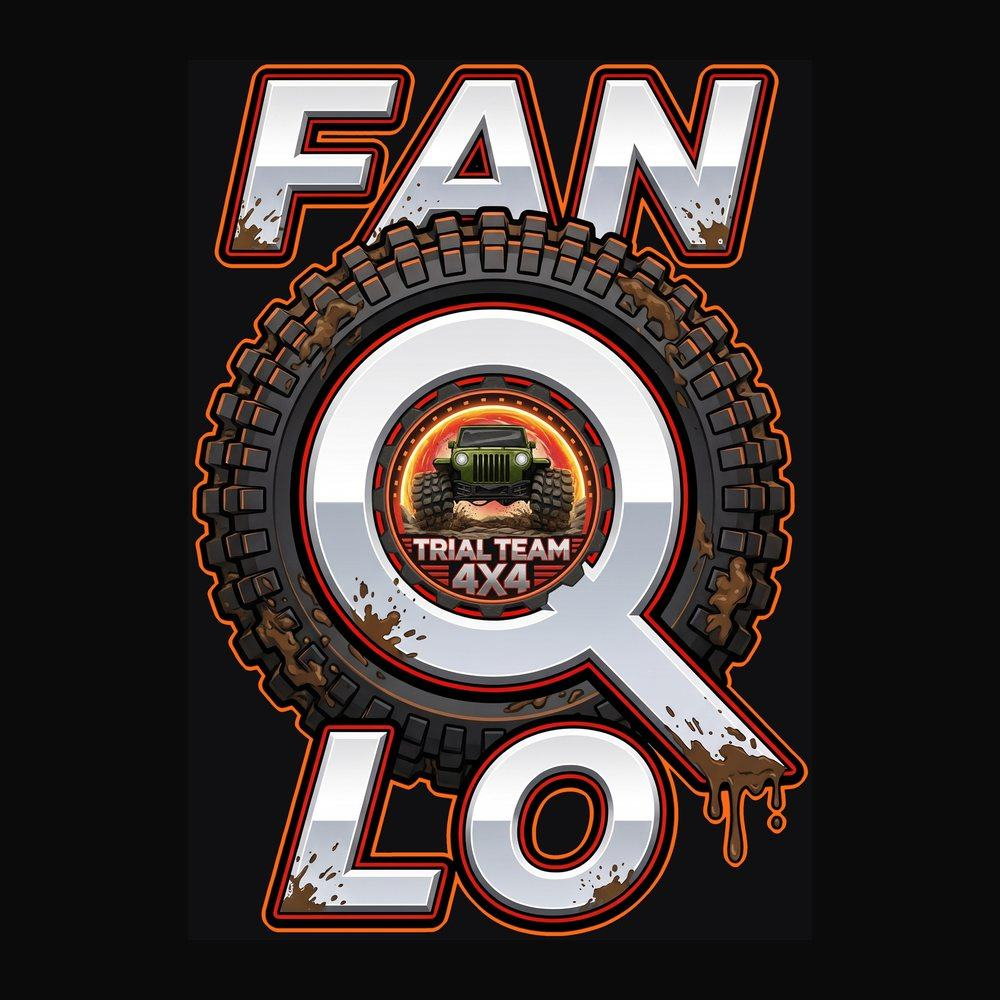
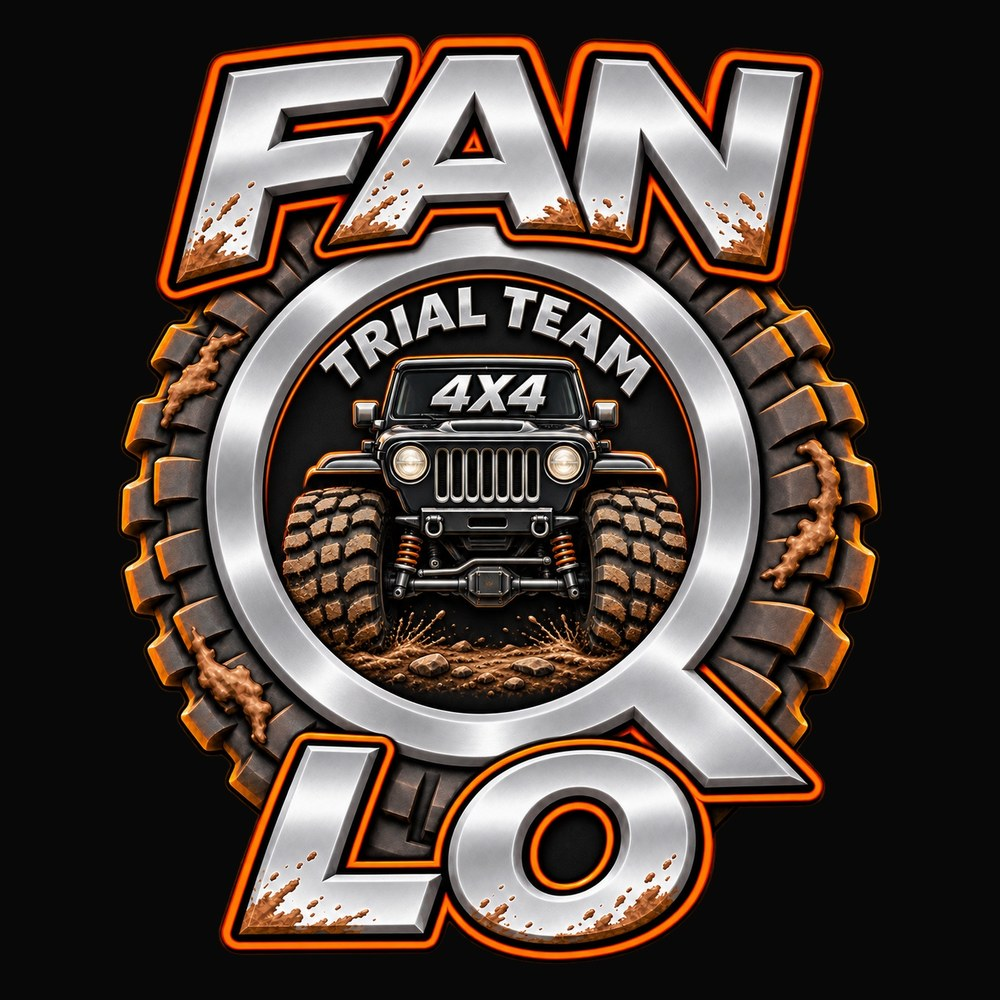
FAN Q LO: grafica Trial Team nuova e maglia FAN Q LO 4x4 Off-Road a 18 euro
Claude-Session: https://claude.ai/code/session_01NjZ5nBP4mLWNqsrV2L94C2

diff --git a/index.html b/index.html
@@ -21,13 +21,13 @@
 <meta name="twitter:description" content="Non è un giro. È una storia. Magliette, felpe, completi da gara e adesivi dell'EDT.">
 <meta name="twitter:image" content="https://endurodrinkingteam.com/img/og.jpg?v=2">
 <script type="application/ld+json">{"@context":"https://schema.org","@graph":[{"@type":"Organization","@id":"https://endurodrinkingteam.com/#edt","name":"Enduro Drinking Team","alternateName":"EDT","url":"https://endurodrinkingteam.com/","logo":"https://endurodrinkingteam.com/img/logo-edt.png","foundingDate":"2017","description":"Gruppo di amici enduristi del Piemonte, con shop ufficiale del merchandising.","sameAs":["https://www.facebook.com/endurodrinkingteam/","https://www.instagram.com/endurodrinking/","https://www.tiktok.com/@endurodrinkingteam","https://www.youtube.com/@piemonteoff-road"]},{"@type":"WebSite","url":"https://endurodrinkingteam.com/","name":"Enduro Drinking Team","inLanguage":"it","publisher":{"@id":"https://endurodrinkingteam.com/#edt"}}]}</script>
-<script type="application/ld+json" id="ld-prodotti">{"@context": "https://schema.org", "@type": "ItemList", "name": "Shop Enduro Drinking Team", "itemListElement": [{"@type": "ListItem", "position": 1, "item": {"@type": "Product", "name": "Completo da gara EDT", "url": "https://endurodrinkingteam.com/#p=completo-gara", "image": "https://endurodrinkingteam.com/img/p/completo-svetlana.jpg", "description": "Maglia + pantalone con il cinghiale, il tuo nome e il numero.", "brand": {"@type": "Brand", "name": "Enduro Drinking Team"}, "offers": {"@type": "Offer", "price": "130.00", "priceCurrency": "EUR", "availability": "https://schema.org/InStock", "url": "https://endurodrinkingteam.com/#p=completo-gara"}}}, {"@type": "ListItem", "position": 2, "item": {"@type": "Product", "name": "Maglia da gara EDT", "url": "https://endurodrinkingteam.com/#p=maglia-gara", "image": "https://endurodrinkingteam.com/img/s/maglia-gara2.jpg", "description": "Enduro Drinking Team davanti, il cinghiale e il tuo nome sulla schiena.", "brand": {"@type": "Brand", "name": "Enduro Drinking Team"}, "offers": {"@type": "Offer", "price": "30.00", "priceCurrency": "EUR", "availability": "https://schema.org/InStock", "url": "https://endurodrinkingteam.com/#p=maglia-gara"}}}, {"@type": "ListItem", "position": 3, "item": {"@type": "Product", "name": "Pantalone da gara EDT", "url": "https://endurodrinkingteam.com/#p=pantalone-gara", "image": "https://endurodrinkingteam.com/img/x/pantalone-dettaglio.jpg", "description": "Il pantalone del completo, con i cinghiali sulle cosce. Venduto da solo.", "brand": {"@type": "Brand", "name": "Enduro Drinking Team"}, "offers": {"@type": "Offer", "price": "110.00", "priceCurrency": "EUR", "availability": "https://schema.org/InStock", "url": "https://endurodrinkingteam.com/#p=pantalone-gara"}}}, {"@type": "ListItem", "position": 4, "item": {"@type": "Product", "name": "Sono un endurista semplice", "url": "https://endurodrinkingteam.com/#p=endurista-semplice", "image": "https://endurodrinkingteam.com/img/p/endurista-svetlana.jpg", "description": "La t-shirt più onesta del Piemonte: scudetto EDT sulla manica e il tuo nome sulla schiena.", "brand": {"@type": "Brand", "name": "Enduro Drinking Team"}, "offers": {"@type": "Offer", "price": "18.00", "priceCurrency": "EUR", "availability": "https://schema.org/InStock", "url": "https://endurodrinkingteam.com/#p=endurista-semplice"}}}, {"@type": "ListItem", "position": 5, "item": {"@type": "Product", "name": "Felpa EDT con nome", "url": "https://endurodrinkingteam.com/#p=felpa-edt", "image": "https://endurodrinkingteam.com/img/s/felpa.jpg", "description": "Zip e cappuccio, il tuo nome sul petto.", "brand": {"@type": "Brand", "name": "Enduro Drinking Team"}, "offers": {"@type": "Offer", "price": "25.00", "priceCurrency": "EUR", "availability": "https://schema.org/InStock", "url": "https://endurodrinkingteam.com/#p=felpa-edt"}}}, {"@type": "ListItem", "position": 6, "item": {"@type": "Product", "name": "T-shirt GEV", "url": "https://endurodrinkingteam.com/#p=t-shirt-gev", "image": "https://endurodrinkingteam.com/img/s/gev.jpg", "description": "Cinque stelle e il tuo nome.", "brand": {"@type": "Brand", "name": "Enduro Drinking Team"}, "offers": {"@type": "Offer", "price": "18.00", "priceCurrency": "EUR", "availability": "https://schema.org/InStock", "url": "https://endurodrinkingteam.com/#p=t-shirt-gev"}}}, {"@type": "ListItem", "position": 7, "item": {"@type": "Product", "name": "Fuck the GEV", "url": "https://endurodrinkingteam.com/#p=fuck-the-gev", "image": "https://endurodrinkingteam.com/img/s/fuckgev.jpg", "description": "Il cinghiale anti-GEV. Per chi ha capito.", "brand": {"@type": "Brand", "name": "Enduro Drinking Team"}, "offers": {"@type": "Offer", "price": "18.00", "priceCurrency": "EUR", "availability": "https://schema.org/InStock", "url": "https://endurodrinkingteam.com/#p=fuck-the-gev"}}}, {"@type": "ListItem", "position": 8, "item": {"@type": "Product", "name": "Fuck the GEV 2026", "url": "https://endurodrinkingteam.com/#p=fuck-the-gev-2026", "image": "https://endurodrinkingteam.com/img/x/fgev26-tee.jpg", "description": "La nuova grafica 2026 in rosso, bianco e verde, grande sul petto.", "brand": {"@type": "Brand", "name": "Enduro Drinking Team"}, "offers": {"@type": "Offer", "price": "18.00", "priceCurrency": "EUR", "availability": "https://schema.org/InStock", "url": "https://endurodrinkingteam.com/#p=fuck-the-gev-2026"}}}, {"@type": "ListItem", "position": 9, "item": {"@type": "Product", "name": "T-shirt EDT 2026", "url": "https://endurodrinkingteam.com/#p=t-shirt-2020", "image": "https://endurodrinkingteam.com/img/s/tshirt2026.jpg", "description": "Il cinghiale vichingo 2026 sul rosso.", "brand": {"@type": "Brand", "name": "Enduro Drinking Team"}, "offers": {"@type": "Offer", "price": "15.00", "priceCurrency": "EUR", "availability": "https://schema.org/InStock", "url": "https://endurodrinkingteam.com/#p=t-shirt-2020"}}}, {"@type": "ListItem", "position": 10, "item": {"@type": "Product", "name": "Manica lunga classica", "url": "https://endurodrinkingteam.com/#p=manica-lunga", "image": "https://endurodrinkingteam.com/img/s/manica.jpg", "description": "Il cinghiale 2026 grande sul petto. Per le uscite di novembre.", "brand": {"@type": "Brand", "name": "Enduro Drinking Team"}, "offers": {"@type": "Offer", "price": "20.00", "priceCurrency": "EUR", "availability": "https://schema.org/InStock", "url": "https://endurodrinkingteam.com/#p=manica-lunga"}}}, {"@type": "ListItem", "position": 11, "item": {"@type": "Product", "name": "T-shirt Serial Griller", "url": "https://endurodrinkingteam.com/#p=t-shirt-serial-griller", "image": "https://endurodrinkingteam.com/img/s/griller.jpg", "description": "Dopo il giro, la griglia.", "brand": {"@type": "Brand", "name": "Enduro Drinking Team"}, "offers": {"@type": "Offer", "price": "15.00", "priceCurrency": "EUR", "availability": "https://schema.org/InStock", "url": "https://endurodrinkingteam.com/#p=t-shirt-serial-griller"}}}, {"@type": "ListItem", "position": 12, "item": {"@type": "Product", "name": "Grembiule Serial Griller", "url": "https://endurodrinkingteam.com/#p=grembiule", "image": "https://endurodrinkingteam.com/img/s/grembiule.jpg", "description": "Taglia unica, anche per chi brucia tutto.", "brand": {"@type": "Brand", "name": "Enduro Drinking Team"}, "offers": {"@type": "Offer", "price": "20.00", "priceCurrency": "EUR", "availability": "https://schema.org/InStock", "url": "https://endurodrinkingteam.com/#p=grembiule"}}}, {"@type": "ListItem", "position": 13, "item": {"@type": "Product", "name": "Berretto EDT", "url": "https://endurodrinkingteam.com/#p=berretto-edt", "image": "https://endurodrinkingteam.com/img/s/berretto.jpg", "description": "Berretto in maglia con la patch del cinghiale 2026.", "brand": {"@type": "Brand", "name": "Enduro Drinking Team"}, "offers": {"@type": "Offer", "price": "20.00", "priceCurrency": "EUR", "availability": "https://schema.org/InStock", "url": "https://endurodrinkingteam.com/#p=berretto-edt"}}}, {"@type": "ListItem", "position": 14, "item": {"@type": "Product", "name": "FAN Q LO Trial Team", "url": "https://endurodrinkingteam.com/#p=fanqlo-trial-team", "image": "https://endurodrinkingteam.com/img/x/fanqlo-tee.jpg", "description": "La Q è una gomma tassellata con dentro il logo Trial Team 4x4. Si capisce al volo.", "brand": {"@type": "Brand", "name": "Enduro Drinking Team"}, "offers": {"@type": "Offer", "price": "18.00", "priceCurrency": "EUR", "availability": "https://schema.org/InStock", "url": "https://endurodrinkingteam.com/#p=fanqlo-trial-team"}}}, {"@type": "ListItem", "position": 15, "item": {"@type": "Product", "name": "Cappello 4x4 in lana", "url": "https://endurodrinkingteam.com/#p=cappello-4x4", "image": "https://endurodrinkingteam.com/img/s/4x4.jpg", "description": "Con la patch 4x4 Off Road.", "brand": {"@type": "Brand", "name": "Enduro Drinking Team"}, "offers": {"@type": "Offer", "price": "12.00", "priceCurrency": "EUR", "availability": "https://schema.org/InStock", "url": "https://endurodrinkingteam.com/#p=cappello-4x4"}}}, {"@type": "ListItem", "position": 16, "item": {"@type": "Product", "name": "Cintura 4x4 in cuoio", "url": "https://endurodrinkingteam.com/#p=cintura-4x4", "image": "https://endurodrinkingteam.com/img/s/cintura.jpg", "description": "Cuoio nero con cuciture rosse, grafica 4x4 Off Road e battistrada. Personalizzabile col tuo nome.", "brand": {"@type": "Brand", "name": "Enduro Drinking Team"}, "offers": {"@type": "Offer", "price": "70.00", "priceCurrency": "EUR", "availability": "https://schema.org/InStock", "url": "https://endurodrinkingteam.com/#p=cintura-4x4"}}}, {"@type": "ListItem", "position": 17, "item": {"@type": "Product", "name": "Patch EDT", "url": "https://endurodrinkingteam.com/#p=patch-edt", "image": "https://endurodrinkingteam.com/img/s/c-patch.jpg", "description": "In stoffa, 8 × 7 cm.", "brand": {"@type": "Brand", "name": "Enduro Drinking Team"}, "offers": {"@type": "Offer", "price": "10.00", "priceCurrency": "EUR", "availability": "https://schema.org/InStock", "url": "https://endurodrinkingteam.com/#p=patch-edt"}}}, {"@type": "ListItem", "position": 18, "item": {"@type": "Product", "name": "Adesivo EDT grande", "url": "https://endurodrinkingteam.com/#p=adesivo-classico", "image": "https://endurodrinkingteam.com/img/s/c-classico.jpg", "description": "Il cinghiale 2026, 10 × 10 cm.", "brand": {"@type": "Brand", "name": "Enduro Drinking Team"}, "offers": {"@type": "Offer", "price": "1.00", "priceCurrency": "EUR", "availability": "https://schema.org/InStock", "url": "https://endurodrinkingteam.com/#p=adesivo-classico"}}}, {"@type": "ListItem", "position": 19, "item": {"@type": "Product", "name": "Adesivo EDT 2026", "url": "https://endurodrinkingteam.com/#p=adesivo-2020", "image": "https://endurodrinkingteam.com/img/s/c-2020.jpg", "description": "7 × 7 cm.", "brand": {"@type": "Brand", "name": "Enduro Drinking Team"}, "offers": {"@type": "Offer", "price": "1.00", "priceCurrency": "EUR", "availability": "https://schema.org/InStock", "url": "https://endurodrinkingteam.com/#p=adesivo-2020"}}}, {"@type": "ListItem", "position": 20, "item": {"@type": "Product", "name": "Adesivo olografico EDT", "url": "https://endurodrinkingteam.com/#p=adesivo-olografico", "image": "https://endurodrinkingteam.com/img/s/c-olografico.jpg", "description": "7 × 7 cm, brilla al sole.", "brand": {"@type": "Brand", "name": "Enduro Drinking Team"}, "offers": {"@type": "Offer", "price": "1.50", "priceCurrency": "EUR", "availability": "https://schema.org/InStock", "url": "https://endurodrinkingteam.com/#p=adesivo-olografico"}}}, {"@type": "ListItem", "position": 21, "item": {"@type": "Product", "name": "Adesivo stemma EDT", "url": "https://endurodrinkingteam.com/#p=stemma-2020", "image": "https://endurodrinkingteam.com/img/s/c-stemma.jpg", "description": "7 × 7 cm.", "brand": {"@type": "Brand", "name": "Enduro Drinking Team"}, "offers": {"@type": "Offer", "price": "1.00", "priceCurrency": "EUR", "availability": "https://schema.org/InStock", "url": "https://endurodrinkingteam.com/#p=stemma-2020"}}}, {"@type": "ListItem", "position": 22, "item": {"@type": "Product", "name": "Adesivo Enduro Piemonte", "url": "https://endurodrinkingteam.com/#p=adesivo-piemonte", "image": "https://endurodrinkingteam.com/img/s/q-adesivo-piemonte.jpg", "description": "8 × 8 cm.", "brand": {"@type": "Brand", "name": "Enduro Drinking Team"}, "offers": {"@type": "Offer", "price": "1.00", "priceCurrency": "EUR", "availability": "https://schema.org/InStock", "url": "https://endurodrinkingteam.com/#p=adesivo-piemonte"}}}, {"@type": "ListItem", "position": 23, "item": {"@type": "Product", "name": "Adesivo Grigliare humanum est", "url": "https://endurodrinkingteam.com/#p=adesivo-grigliare", "image": "https://endurodrinkingteam.com/img/s/q-adesivo-grigliare.jpg", "description": "9 × 6 cm.", "brand": {"@type": "Brand", "name": "Enduro Drinking Team"}, "offers": {"@type": "Offer", "price": "1.00", "priceCurrency": "EUR", "availability": "https://schema.org/InStock", "url": "https://endurodrinkingteam.com/#p=adesivo-grigliare"}}}, {"@type": "ListItem", "position": 24, "item": {"@type": "Product", "name": "Adesivo I want you for giri easy", "url": "https://endurodrinkingteam.com/#p=adesivo-iwantyou", "image": "https://endurodrinkingteam.com/img/s/q-adesivo-iwantyou.jpg", "description": "Il reclutamento ufficiale EDT.", "brand": {"@type": "Brand", "name": "Enduro Drinking Team"}, "offers": {"@type": "Offer", "price": "1.00", "priceCurrency": "EUR", "availability": "https://schema.org/InStock", "url": "https://endurodrinkingteam.com/#p=adesivo-iwantyou"}}}, {"@type": "ListItem", "position": 25, "item": {"@type": "Product", "name": "Adesivo San Miti", "url": "https://endurodrinkingteam.com/#p=adesivo-sanmiti", "image": "https://endurodrinkingteam.com/img/s/q-adesivo-sanmiti.jpg", "description": "Protettore dell'EDT. Attaccalo sul parafango, non si sa mai.", "brand": {"@type": "Brand", "name": "Enduro Drinking Team"}, "offers": {"@type": "Offer", "price": "1.00", "priceCurrency": "EUR", "availability": "https://schema.org/InStock", "url": "https://endurodrinkingteam.com/#p=adesivo-sanmiti"}}}, {"@type": "ListItem", "position": 26, "item": {"@type": "Product", "name": "Calamita stemma EDT", "url": "https://endurodrinkingteam.com/#p=calamita-stemma", "image": "https://endurodrinkingteam.com/img/s/c-calamita-stemma.jpg", "description": "65 × 76 mm.", "brand": {"@type": "Brand", "name": "Enduro Drinking Team"}, "offers": {"@type": "Offer", "price": "1.50", "priceCurrency": "EUR", "availability": "https://schema.org/InStock", "url": "https://endurodrinkingteam.com/#p=calamita-stemma"}}}, {"@type": "ListItem", "position": 27, "item": {"@type": "Product", "name": "Calamita EDT", "url": "https://endurodrinkingteam.com/#p=calamita-edt", "image": "https://endurodrinkingteam.com/img/s/c-calamita.jpg", "description": "8 × 8 cm.", "brand": {"@type": "Brand", "name": "Enduro Drinking Team"}, "offers": {"@type": "Offer", "price": "1.50", "priceCurrency": "EUR", "availability": "https://schema.org/InStock", "url": "https://endurodrinkingteam.com/#p=calamita-edt"}}}, {"@type": "ListItem", "position": 28, "item": {"@type": "Product", "name": "Spilla EDT classica", "url": "https://endurodrinkingteam.com/#p=spilla-classica", "image": "https://endurodrinkingteam.com/img/s/c-spilla.jpg", "description": "3 × 3 cm.", "brand": {"@type": "Brand", "name": "Enduro Drinking Team"}, "offers": {"@type": "Offer", "price": "1.50", "priceCurrency": "EUR", "availability": "https://schema.org/InStock", "url": "https://endurodrinkingteam.com/#p=spilla-classica"}}}, {"@type": "ListItem", "position": 29, "item": {"@type": "Product", "name": "Spilla Enduro Piemonte", "url": "https://endurodrinkingteam.com/#p=spilla-piemonte", "image": "https://endurodrinkingteam.com/img/s/q-spilla-piemonte.jpg", "description": "4 × 4 cm.", "brand": {"@type": "Brand", "name": "Enduro Drinking Team"}, "offers": {"@type": "Offer", "price": "1.50", "priceCurrency": "EUR", "availability": "https://schema.org/InStock", "url": "https://endurodrinkingteam.com/#p=spilla-piemonte"}}}]}</script>
+<script type="application/ld+json" id="ld-prodotti">{"@context": "https://schema.org", "@type": "ItemList", "name": "Shop Enduro Drinking Team", "itemListElement": [{"@type": "ListItem", "position": 1, "item": {"@type": "Product", "name": "Completo da gara EDT", "url": "https://endurodrinkingteam.com/#p=completo-gara", "image": "https://endurodrinkingteam.com/img/p/completo-svetlana.jpg", "description": "Maglia + pantalone con il cinghiale, il tuo nome e il numero.", "brand": {"@type": "Brand", "name": "Enduro Drinking Team"}, "offers": {"@type": "Offer", "price": "130.00", "priceCurrency": "EUR", "availability": "https://schema.org/InStock", "url": "https://endurodrinkingteam.com/#p=completo-gara"}}}, {"@type": "ListItem", "position": 2, "item": {"@type": "Product", "name": "Maglia da gara EDT", "url": "https://endurodrinkingteam.com/#p=maglia-gara", "image": "https://endurodrinkingteam.com/img/s/maglia-gara2.jpg", "description": "Enduro Drinking Team davanti, il cinghiale e il tuo nome sulla schiena.", "brand": {"@type": "Brand", "name": "Enduro Drinking Team"}, "offers": {"@type": "Offer", "price": "30.00", "priceCurrency": "EUR", "availability": "https://schema.org/InStock", "url": "https://endurodrinkingteam.com/#p=maglia-gara"}}}, {"@type": "ListItem", "position": 3, "item": {"@type": "Product", "name": "Pantalone da gara EDT", "url": "https://endurodrinkingteam.com/#p=pantalone-gara", "image": "https://endurodrinkingteam.com/img/x/pantalone-dettaglio.jpg", "description": "Il pantalone del completo, con i cinghiali sulle cosce. Venduto da solo.", "brand": {"@type": "Brand", "name": "Enduro Drinking Team"}, "offers": {"@type": "Offer", "price": "110.00", "priceCurrency": "EUR", "availability": "https://schema.org/InStock", "url": "https://endurodrinkingteam.com/#p=pantalone-gara"}}}, {"@type": "ListItem", "position": 4, "item": {"@type": "Product", "name": "Sono un endurista semplice", "url": "https://endurodrinkingteam.com/#p=endurista-semplice", "image": "https://endurodrinkingteam.com/img/p/endurista-svetlana.jpg", "description": "La t-shirt più onesta del Piemonte: scudetto EDT sulla manica e il tuo nome sulla schiena.", "brand": {"@type": "Brand", "name": "Enduro Drinking Team"}, "offers": {"@type": "Offer", "price": "18.00", "priceCurrency": "EUR", "availability": "https://schema.org/InStock", "url": "https://endurodrinkingteam.com/#p=endurista-semplice"}}}, {"@type": "ListItem", "position": 5, "item": {"@type": "Product", "name": "Felpa EDT con nome", "url": "https://endurodrinkingteam.com/#p=felpa-edt", "image": "https://endurodrinkingteam.com/img/s/felpa.jpg", "description": "Zip e cappuccio, il tuo nome sul petto.", "brand": {"@type": "Brand", "name": "Enduro Drinking Team"}, "offers": {"@type": "Offer", "price": "25.00", "priceCurrency": "EUR", "availability": "https://schema.org/InStock", "url": "https://endurodrinkingteam.com/#p=felpa-edt"}}}, {"@type": "ListItem", "position": 6, "item": {"@type": "Product", "name": "T-shirt GEV", "url": "https://endurodrinkingteam.com/#p=t-shirt-gev", "image": "https://endurodrinkingteam.com/img/s/gev.jpg", "description": "Cinque stelle e il tuo nome.", "brand": {"@type": "Brand", "name": "Enduro Drinking Team"}, "offers": {"@type": "Offer", "price": "18.00", "priceCurrency": "EUR", "availability": "https://schema.org/InStock", "url": "https://endurodrinkingteam.com/#p=t-shirt-gev"}}}, {"@type": "ListItem", "position": 7, "item": {"@type": "Product", "name": "Fuck the GEV", "url": "https://endurodrinkingteam.com/#p=fuck-the-gev", "image": "https://endurodrinkingteam.com/img/s/fuckgev.jpg", "description": "Il cinghiale anti-GEV. Per chi ha capito.", "brand": {"@type": "Brand", "name": "Enduro Drinking Team"}, "offers": {"@type": "Offer", "price": "18.00", "priceCurrency": "EUR", "availability": "https://schema.org/InStock", "url": "https://endurodrinkingteam.com/#p=fuck-the-gev"}}}, {"@type": "ListItem", "position": 8, "item": {"@type": "Product", "name": "Fuck the GEV 2026", "url": "https://endurodrinkingteam.com/#p=fuck-the-gev-2026", "image": "https://endurodrinkingteam.com/img/x/fgev26-tee.jpg", "description": "La nuova grafica 2026 in rosso, bianco e verde, grande sul petto.", "brand": {"@type": "Brand", "name": "Enduro Drinking Team"}, "offers": {"@type": "Offer", "price": "18.00", "priceCurrency": "EUR", "availability": "https://schema.org/InStock", "url": "https://endurodrinkingteam.com/#p=fuck-the-gev-2026"}}}, {"@type": "ListItem", "position": 9, "item": {"@type": "Product", "name": "T-shirt EDT 2026", "url": "https://endurodrinkingteam.com/#p=t-shirt-2020", "image": "https://endurodrinkingteam.com/img/s/tshirt2026.jpg", "description": "Il cinghiale vichingo 2026 sul rosso.", "brand": {"@type": "Brand", "name": "Enduro Drinking Team"}, "offers": {"@type": "Offer", "price": "15.00", "priceCurrency": "EUR", "availability": "https://schema.org/InStock", "url": "https://endurodrinkingteam.com/#p=t-shirt-2020"}}}, {"@type": "ListItem", "position": 10, "item": {"@type": "Product", "name": "Manica lunga classica", "url": "https://endurodrinkingteam.com/#p=manica-lunga", "image": "https://endurodrinkingteam.com/img/s/manica.jpg", "description": "Il cinghiale 2026 grande sul petto. Per le uscite di novembre.", "brand": {"@type": "Brand", "name": "Enduro Drinking Team"}, "offers": {"@type": "Offer", "price": "20.00", "priceCurrency": "EUR", "availability": "https://schema.org/InStock", "url": "https://endurodrinkingteam.com/#p=manica-lunga"}}}, {"@type": "ListItem", "position": 11, "item": {"@type": "Product", "name": "T-shirt Serial Griller", "url": "https://endurodrinkingteam.com/#p=t-shirt-serial-griller", "image": "https://endurodrinkingteam.com/img/s/griller.jpg", "description": "Dopo il giro, la griglia.", "brand": {"@type": "Brand", "name": "Enduro Drinking Team"}, "offers": {"@type": "Offer", "price": "15.00", "priceCurrency": "EUR", "availability": "https://schema.org/InStock", "url": "https://endurodrinkingteam.com/#p=t-shirt-serial-griller"}}}, {"@type": "ListItem", "position": 12, "item": {"@type": "Product", "name": "Grembiule Serial Griller", "url": "https://endurodrinkingteam.com/#p=grembiule", "image": "https://endurodrinkingteam.com/img/s/grembiule.jpg", "description": "Taglia unica, anche per chi brucia tutto.", "brand": {"@type": "Brand", "name": "Enduro Drinking Team"}, "offers": {"@type": "Offer", "price": "20.00", "priceCurrency": "EUR", "availability": "https://schema.org/InStock", "url": "https://endurodrinkingteam.com/#p=grembiule"}}}, {"@type": "ListItem", "position": 13, "item": {"@type": "Product", "name": "Berretto EDT", "url": "https://endurodrinkingteam.com/#p=berretto-edt", "image": "https://endurodrinkingteam.com/img/s/berretto.jpg", "description": "Berretto in maglia con la patch del cinghiale 2026.", "brand": {"@type": "Brand", "name": "Enduro Drinking Team"}, "offers": {"@type": "Offer", "price": "20.00", "priceCurrency": "EUR", "availability": "https://schema.org/InStock", "url": "https://endurodrinkingteam.com/#p=berretto-edt"}}}, {"@type": "ListItem", "position": 14, "item": {"@type": "Product", "name": "FAN Q LO Trial Team", "url": "https://endurodrinkingteam.com/#p=fanqlo-trial-team", "image": "https://endurodrinkingteam.com/img/x/fanqlo-tee.jpg", "description": "La Q è una gomma tassellata con dentro la Jeep del Trial Team 4x4. Si capisce al volo.", "brand": {"@type": "Brand", "name": "Enduro Drinking Team"}, "offers": {"@type": "Offer", "price": "18.00", "priceCurrency": "EUR", "availability": "https://schema.org/InStock", "url": "https://endurodrinkingteam.com/#p=fanqlo-trial-team"}}}, {"@type": "ListItem", "position": 15, "item": {"@type": "Product", "name": "FAN Q LO 4x4 Off-Road", "url": "https://endurodrinkingteam.com/#p=fanqlo-4x4", "image": "https://endurodrinkingteam.com/img/x/fanqlo4x4-tee.jpg", "description": "Stessa Q a gomma tassellata, ma dentro c’è il cinghiale vichingo del 4x4 Off-Road. Con la birra, ovviamente.", "brand": {"@type": "Brand", "name": "Enduro Drinking Team"}, "offers": {"@type": "Offer", "price": "18.00", "priceCurrency": "EUR", "availability": "https://schema.org/InStock", "url": "https://endurodrinkingteam.com/#p=fanqlo-4x4"}}}, {"@type": "ListItem", "position": 16, "item": {"@type": "Product", "name": "Cappello 4x4 in lana", "url": "https://endurodrinkingteam.com/#p=cappello-4x4", "image": "https://endurodrinkingteam.com/img/s/4x4.jpg", "description": "Con la patch 4x4 Off Road.", "brand": {"@type": "Brand", "name": "Enduro Drinking Team"}, "offers": {"@type": "Offer", "price": "12.00", "priceCurrency": "EUR", "availability": "https://schema.org/InStock", "url": "https://endurodrinkingteam.com/#p=cappello-4x4"}}}, {"@type": "ListItem", "position": 17, "item": {"@type": "Product", "name": "Cintura 4x4 in cuoio", "url": "https://endurodrinkingteam.com/#p=cintura-4x4", "image": "https://endurodrinkingteam.com/img/s/cintura.jpg", "description": "Cuoio nero con cuciture rosse, grafica 4x4 Off Road e battistrada. Personalizzabile col tuo nome.", "brand": {"@type": "Brand", "name": "Enduro Drinking Team"}, "offers": {"@type": "Offer", "price": "70.00", "priceCurrency": "EUR", "availability": "https://schema.org/InStock", "url": "https://endurodrinkingteam.com/#p=cintura-4x4"}}}, {"@type": "ListItem", "position": 18, "item": {"@type": "Product", "name": "Patch EDT", "url": "https://endurodrinkingteam.com/#p=patch-edt", "image": "https://endurodrinkingteam.com/img/s/c-patch.jpg", "description": "In stoffa, 8 × 7 cm.", "brand": {"@type": "Brand", "name": "Enduro Drinking Team"}, "offers": {"@type": "Offer", "price": "10.00", "priceCurrency": "EUR", "availability": "https://schema.org/InStock", "url": "https://endurodrinkingteam.com/#p=patch-edt"}}}, {"@type": "ListItem", "position": 19, "item": {"@type": "Product", "name": "Adesivo EDT grande", "url": "https://endurodrinkingteam.com/#p=adesivo-classico", "image": "https://endurodrinkingteam.com/img/s/c-classico.jpg", "description": "Il cinghiale 2026, 10 × 10 cm.", "brand": {"@type": "Brand", "name": "Enduro Drinking Team"}, "offers": {"@type": "Offer", "price": "1.00", "priceCurrency": "EUR", "availability": "https://schema.org/InStock", "url": "https://endurodrinkingteam.com/#p=adesivo-classico"}}}, {"@type": "ListItem", "position": 20, "item": {"@type": "Product", "name": "Adesivo EDT 2026", "url": "https://endurodrinkingteam.com/#p=adesivo-2020", "image": "https://endurodrinkingteam.com/img/s/c-2020.jpg", "description": "7 × 7 cm.", "brand": {"@type": "Brand", "name": "Enduro Drinking Team"}, "offers": {"@type": "Offer", "price": "1.00", "priceCurrency": "EUR", "availability": "https://schema.org/InStock", "url": "https://endurodrinkingteam.com/#p=adesivo-2020"}}}, {"@type": "ListItem", "position": 21, "item": {"@type": "Product", "name": "Adesivo olografico EDT", "url": "https://endurodrinkingteam.com/#p=adesivo-olografico", "image": "https://endurodrinkingteam.com/img/s/c-olografico.jpg", "description": "7 × 7 cm, brilla al sole.", "brand": {"@type": "Brand", "name": "Enduro Drinking Team"}, "offers": {"@type": "Offer", "price": "1.50", "priceCurrency": "EUR", "availability": "https://schema.org/InStock", "url": "https://endurodrinkingteam.com/#p=adesivo-olografico"}}}, {"@type": "ListItem", "position": 22, "item": {"@type": "Product", "name": "Adesivo stemma EDT", "url": "https://endurodrinkingteam.com/#p=stemma-2020", "image": "https://endurodrinkingteam.com/img/s/c-stemma.jpg", "description": "7 × 7 cm.", "brand": {"@type": "Brand", "name": "Enduro Drinking Team"}, "offers": {"@type": "Offer", "price": "1.00", "priceCurrency": "EUR", "availability": "https://schema.org/InStock", "url": "https://endurodrinkingteam.com/#p=stemma-2020"}}}, {"@type": "ListItem", "position": 23, "item": {"@type": "Product", "name": "Adesivo Enduro Piemonte", "url": "https://endurodrinkingteam.com/#p=adesivo-piemonte", "image": "https://endurodrinkingteam.com/img/s/q-adesivo-piemonte.jpg", "description": "8 × 8 cm.", "brand": {"@type": "Brand", "name": "Enduro Drinking Team"}, "offers": {"@type": "Offer", "price": "1.00", "priceCurrency": "EUR", "availability": "https://schema.org/InStock", "url": "https://endurodrinkingteam.com/#p=adesivo-piemonte"}}}, {"@type": "ListItem", "position": 24, "item": {"@type": "Product", "name": "Adesivo Grigliare humanum est", "url": "https://endurodrinkingteam.com/#p=adesivo-grigliare", "image": "https://endurodrinkingteam.com/img/s/q-adesivo-grigliare.jpg", "description": "9 × 6 cm.", "brand": {"@type": "Brand", "name": "Enduro Drinking Team"}, "offers": {"@type": "Offer", "price": "1.00", "priceCurrency": "EUR", "availability": "https://schema.org/InStock", "url": "https://endurodrinkingteam.com/#p=adesivo-grigliare"}}}, {"@type": "ListItem", "position": 25, "item": {"@type": "Product", "name": "Adesivo I want you for giri easy", "url": "https://endurodrinkingteam.com/#p=adesivo-iwantyou", "image": "https://endurodrinkingteam.com/img/s/q-adesivo-iwantyou.jpg", "description": "Il reclutamento ufficiale EDT.", "brand": {"@type": "Brand", "name": "Enduro Drinking Team"}, "offers": {"@type": "Offer", "price": "1.00", "priceCurrency": "EUR", "availability": "https://schema.org/InStock", "url": "https://endurodrinkingteam.com/#p=adesivo-iwantyou"}}}, {"@type": "ListItem", "position": 26, "item": {"@type": "Product", "name": "Adesivo San Miti", "url": "https://endurodrinkingteam.com/#p=adesivo-sanmiti", "image": "https://endurodrinkingteam.com/img/s/q-adesivo-sanmiti.jpg", "description": "Protettore dell'EDT. Attaccalo sul parafango, non si sa mai.", "brand": {"@type": "Brand", "name": "Enduro Drinking Team"}, "offers": {"@type": "Offer", "price": "1.00", "priceCurrency": "EUR", "availability": "https://schema.org/InStock", "url": "https://endurodrinkingteam.com/#p=adesivo-sanmiti"}}}, {"@type": "ListItem", "position": 27, "item": {"@type": "Product", "name": "Calamita stemma EDT", "url": "https://endurodrinkingteam.com/#p=calamita-stemma", "image": "https://endurodrinkingteam.com/img/s/c-calamita-stemma.jpg", "description": "65 × 76 mm.", "brand": {"@type": "Brand", "name": "Enduro Drinking Team"}, "offers": {"@type": "Offer", "price": "1.50", "priceCurrency": "EUR", "availability": "https://schema.org/InStock", "url": "https://endurodrinkingteam.com/#p=calamita-stemma"}}}, {"@type": "ListItem", "position": 28, "item": {"@type": "Product", "name": "Calamita EDT", "url": "https://endurodrinkingteam.com/#p=calamita-edt", "image": "https://endurodrinkingteam.com/img/s/c-calamita.jpg", "description": "8 × 8 cm.", "brand": {"@type": "Brand", "name": "Enduro Drinking Team"}, "offers": {"@type": "Offer", "price": "1.50", "priceCurrency": "EUR", "availability": "https://schema.org/InStock", "url": "https://endurodrinkingteam.com/#p=calamita-edt"}}}, {"@type": "ListItem", "position": 29, "item": {"@type": "Product", "name": "Spilla EDT classica", "url": "https://endurodrinkingteam.com/#p=spilla-classica", "image": "https://endurodrinkingteam.com/img/s/c-spilla.jpg", "description": "3 × 3 cm.", "brand": {"@type": "Brand", "name": "Enduro Drinking Team"}, "offers": {"@type": "Offer", "price": "1.50", "priceCurrency": "EUR", "availability": "https://schema.org/InStock", "url": "https://endurodrinkingteam.com/#p=spilla-classica"}}}, {"@type": "ListItem", "position": 30, "item": {"@type": "Product", "name": "Spilla Enduro Piemonte", "url": "https://endurodrinkingteam.com/#p=spilla-piemonte", "image": "https://endurodrinkingteam.com/img/s/q-spilla-piemonte.jpg", "description": "4 × 4 cm.", "brand": {"@type": "Brand", "name": "Enduro Drinking Team"}, "offers": {"@type": "Offer", "price": "1.50", "priceCurrency": "EUR", "availability": "https://schema.org/InStock", "url": "https://endurodrinkingteam.com/#p=spilla-piemonte"}}}]}</script>
 <meta name="theme-color" content="#0f0d0b">
 <link rel="icon" href="img/mascotte.png">
 <link rel="preconnect" href="https://fonts.googleapis.com">
 <link rel="preconnect" href="https://fonts.gstatic.com" crossorigin>
 <link href="https://fonts.googleapis.com/css2?family=Archivo:wdth,wght@62..125,400..800&family=Bowlby+One&family=Rubik+Dirt&display=swap" rel="stylesheet">
-<link rel="stylesheet" href="style.css?v=23">
+<link rel="stylesheet" href="style.css?v=24">
 </head>
 <body>
 
@@ -470,8 +470,8 @@
 </dialog>
 
 <div class="toast" id="toast" role="status" hidden></div>
-<script src="app.js?v=23"></script>
-<script src="gioca.js?v=23" defer></script>
+<script src="app.js?v=24"></script>
+<script src="gioca.js?v=24" defer></script>
 <script data-goatcounter="https://endurodrinkingteam.goatcounter.com/count" async src="https://gc.zgo.at/count.js"></script>
 </body>
 </html>

diff --git a/app.js b/app.js
@@ -50,7 +50,8 @@ const PRODUCTS = [
   { id: 'grembiule', cat: 'wear', name: 'Grembiule Serial Griller', note: 'Taglia unica, anche per chi brucia tutto.', price: 20, img: 'img/s/grembiule.jpg', imgs: ['img/s/grembiule.jpg', 'img/p/grembiule-serial-griller.jpg'] },
   { id: 'berretto-edt', cat: 'wear', name: 'Berretto EDT', note: 'Berretto in maglia con la patch del cinghiale 2026.', price: 20, img: 'img/s/berretto.jpg' },
 
-  { id: 'fanqlo-trial-team', guide: 'tee', cat: '4x4', name: 'FAN Q LO Trial Team', note: 'La Q è una gomma tassellata con dentro il logo Trial Team 4x4. Si capisce al volo.', price: 18, img: 'img/x/fanqlo-tee.jpg', imgs: ['img/x/fanqlo-tee.jpg', 'img/x/fanqlo-grafica.jpg'], sizes: true, colors: ['Nera'], tag: 'Novità' },
+  { id: 'fanqlo-trial-team', guide: 'tee', cat: '4x4', name: 'FAN Q LO Trial Team', note: 'La Q è una gomma tassellata con dentro la Jeep del Trial Team 4x4. Si capisce al volo.', price: 18, img: 'img/x/fanqlo-tee.jpg', imgs: ['img/x/fanqlo-tee.jpg', 'img/x/fanqlo-grafica.jpg'], sizes: true, colors: ['Nera'], tag: 'Novità' },
+  { id: 'fanqlo-4x4', guide: 'tee', cat: '4x4', name: 'FAN Q LO 4x4 Off-Road', note: 'Stessa Q a gomma tassellata, ma dentro c’è il cinghiale vichingo del 4x4 Off-Road. Con la birra, ovviamente.', price: 18, img: 'img/x/fanqlo4x4-tee.jpg', imgs: ['img/x/fanqlo4x4-tee.jpg', 'img/x/fanqlo4x4-grafica.jpg'], sizes: true, colors: ['Nera'], tag: 'Novità' },
   { id: 'cappello-4x4', cat: '4x4', name: 'Cappello 4x4 in lana', note: 'Con la patch 4x4 Off Road.', price: 12, img: 'img/s/4x4.jpg' },
   { id: 'cintura-4x4', cat: '4x4', name: 'Cintura 4x4 in cuoio', note: 'Cuoio nero con cuciture rosse, grafica 4x4 Off Road e battistrada. Personalizzabile col tuo nome.', price: 70, img: 'img/s/cintura.jpg', pos: '50% 62%', imgs: ['img/s/cintura.jpg', 'img/p/cintura-4x4-cuoio.jpg'], nome: true },
 

diff --git a/condizioni.html b/condizioni.html
@@ -11,7 +11,7 @@
 <link rel="preconnect" href="https://fonts.googleapis.com">
 <link rel="preconnect" href="https://fonts.gstatic.com" crossorigin>
 <link href="https://fonts.googleapis.com/css2?family=Archivo:wdth,wght@62..125,400..800&family=Bowlby+One&family=Rubik+Dirt&display=swap" rel="stylesheet">
-<link rel="stylesheet" href="style.css?v=23">
+<link rel="stylesheet" href="style.css?v=24">
 </head>
 <body class="legal-page">
 <header class="top">

diff --git a/privacy.html b/privacy.html
@@ -11,7 +11,7 @@
 <link rel="preconnect" href="https://fonts.googleapis.com">
 <link rel="preconnect" href="https://fonts.gstatic.com" crossorigin>
 <link href="https://fonts.googleapis.com/css2?family=Archivo:wdth,wght@62..125,400..800&family=Bowlby+One&family=Rubik+Dirt&display=swap" rel="stylesheet">
-<link rel="stylesheet" href="style.css?v=23">
+<link rel="stylesheet" href="style.css?v=24">
 </head>
 <body class="legal-page">
 <header class="top">
